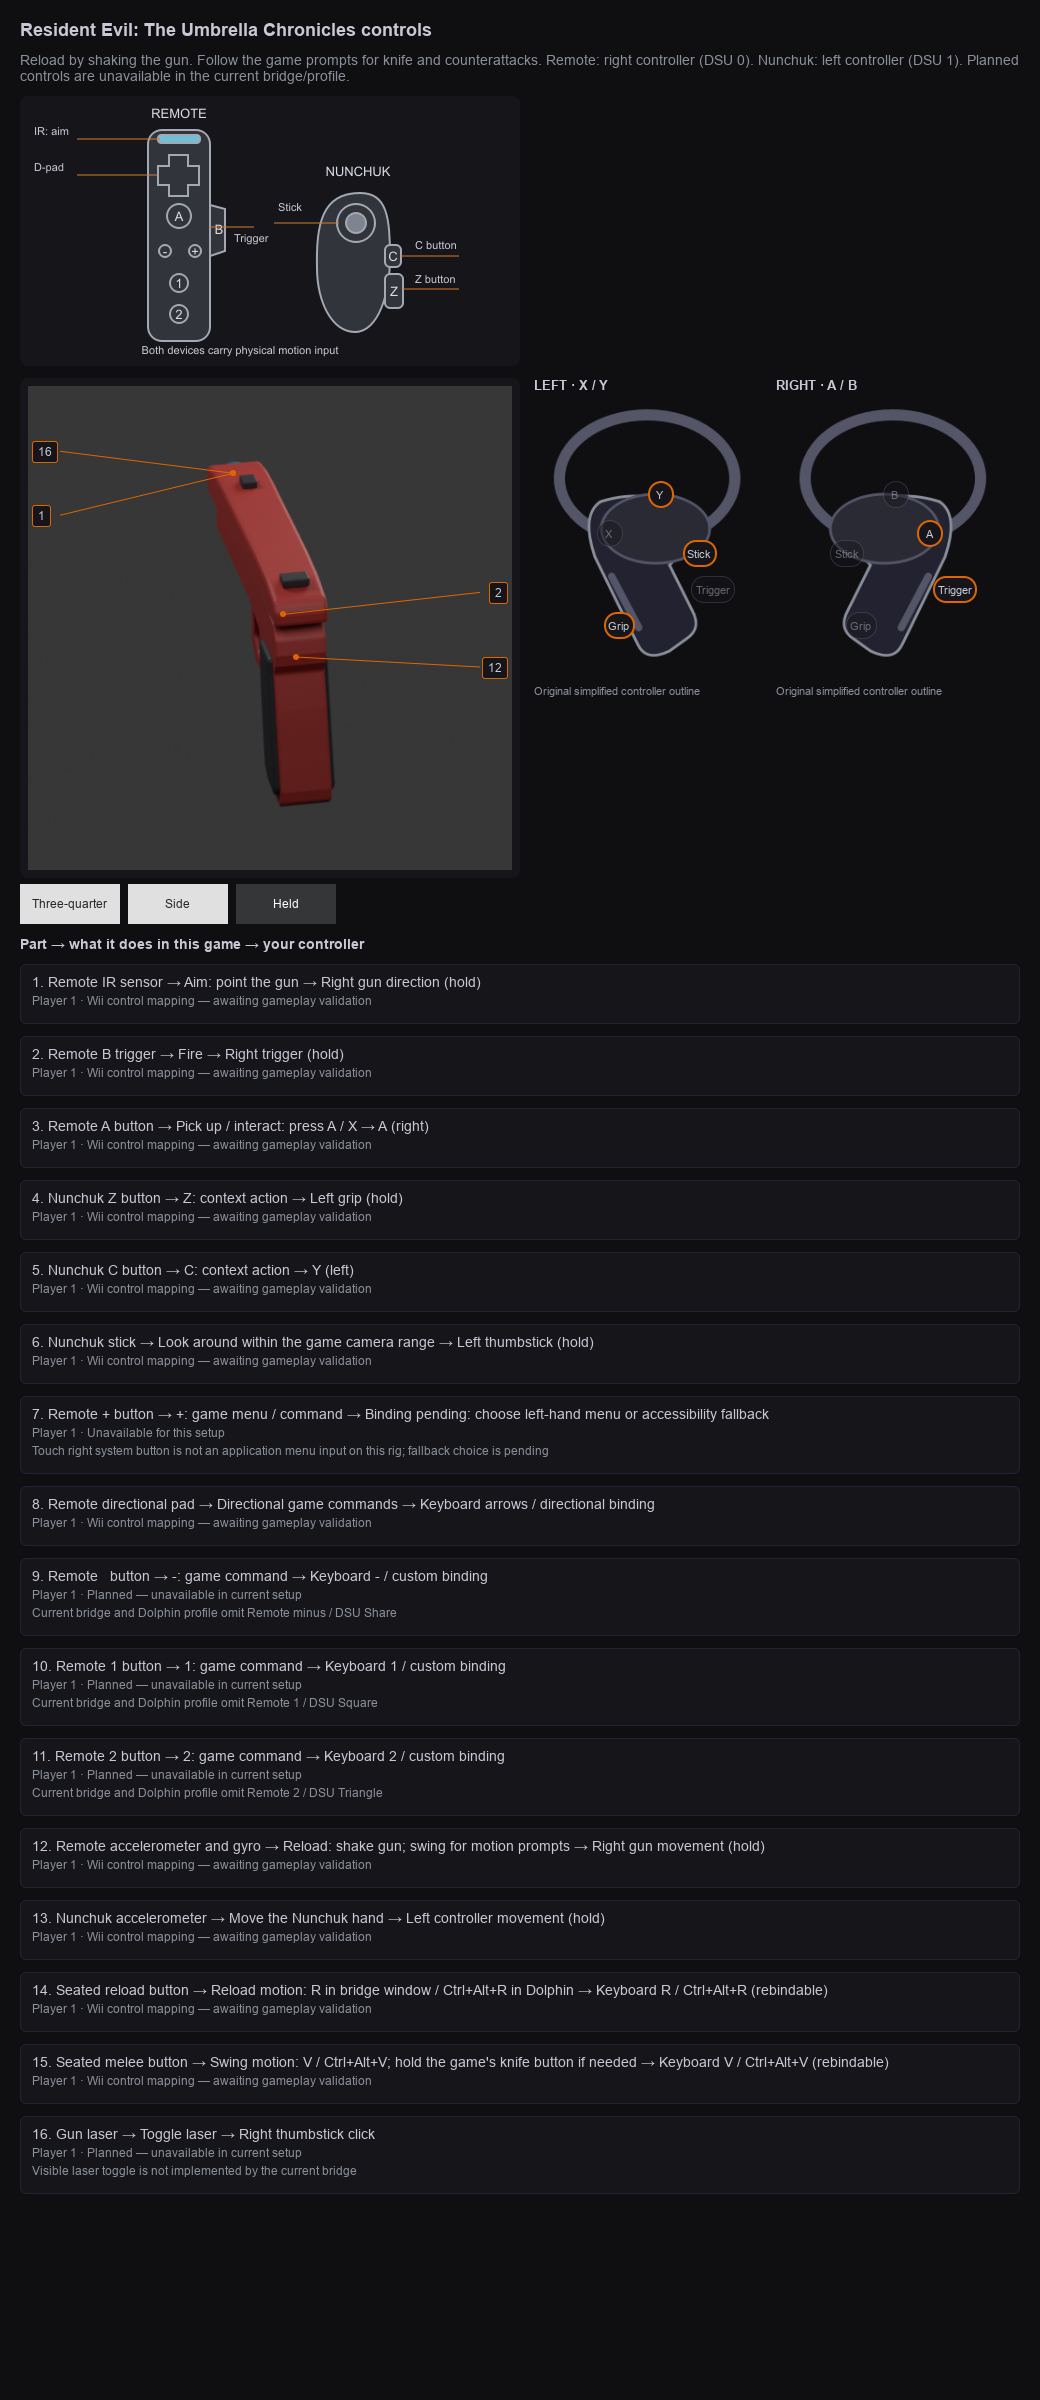
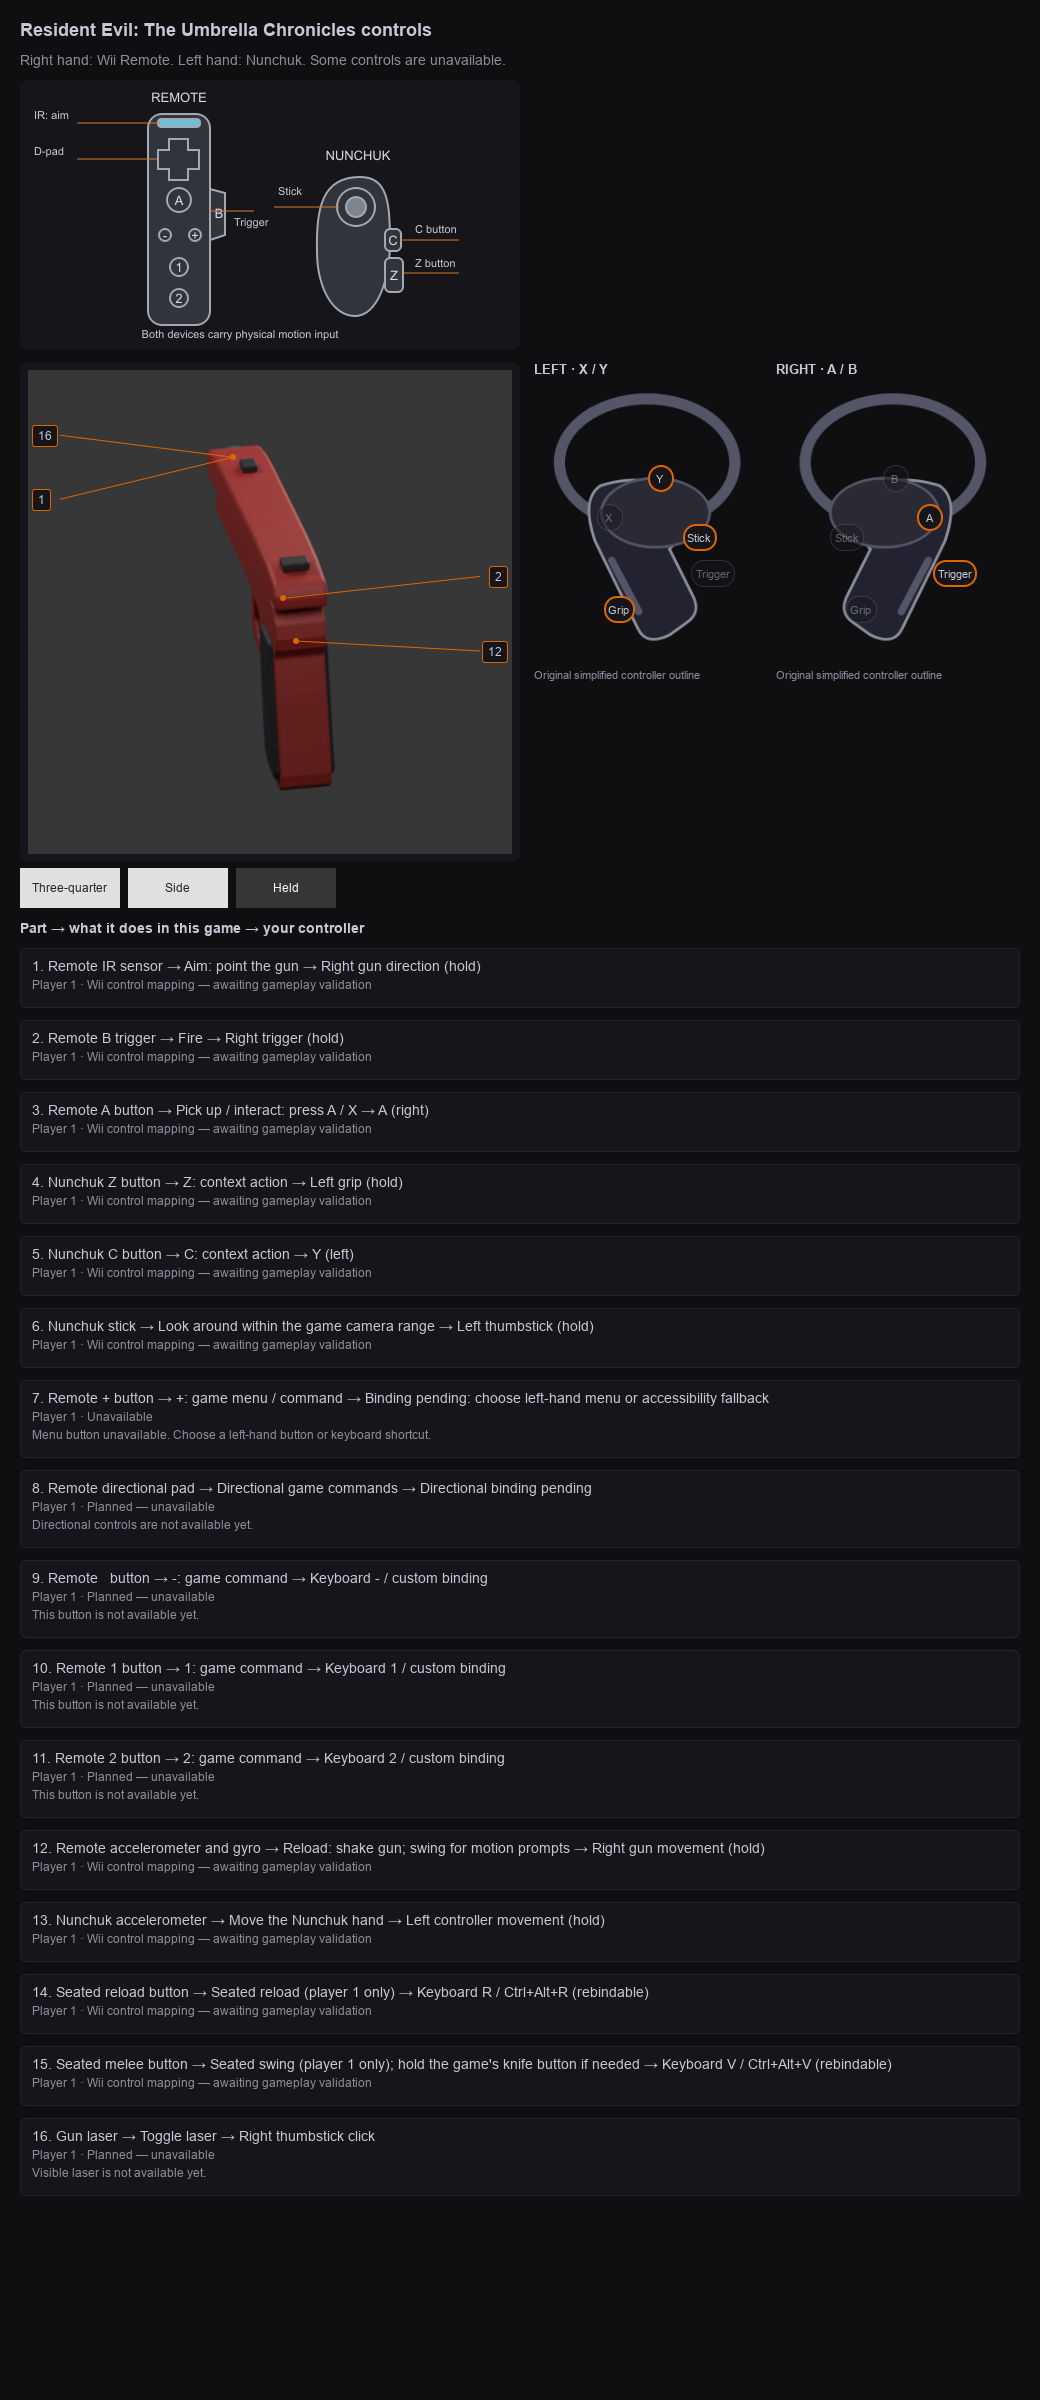
Scope Wii keyboard fallbacks to player one and mark D-pad planned

diff --git a/hub/src/controls/ControlsViewModel.cpp b/hub/src/controls/ControlsViewModel.cpp
@@ -190,11 +190,12 @@ QVariantList ControlsViewModel::makeRows() const {
         const auto availability = source.value("availability").toMap();
         QString state = availability.value("state").toString();
         QString reason = availability.value("reason").toString();
+        if (wiiControls()) reason=source.value("player_reason","This control is not available yet.").toString();
         const bool unsupportedHand = wiiControls() && !m_data.value("policy").toMap().value("supported_primary_hands").toStringList().contains(m_primaryHand);
         if (unmapped) state = "unmapped";
         else if (unsupportedHand) {
             state = "unavailable";
-            reason = "Left-primary setup is not implemented by the current Dolphin profile";
+            reason = "Left-hand Wii Remote setup is not available yet.";
         }
         else if (state != "available" && state != "unavailable" && state != "planned") state = "unverified";
         const QString node = source.value("node").toString();
@@ -204,7 +205,7 @@ QVariantList ControlsViewModel::makeRows() const {
         const QString part = unmapped ? source.value("label").toString() : pretty(source.value("part").toString());
         const QString action = unmapped ? "Game action pending" : source.value("label").toString();
         const QString bindingText = unmapped ? "Binding pending" : source.contains("binding_label") ? source.value("binding_label").toString() : bindingLabel(binding,hand);
-        const QString availabilityLabel = state == "planned" ? "Planned — unavailable in current setup" : state == "unavailable" ? "Unavailable for this setup" :
+        const QString availabilityLabel = state == "planned" ? "Planned — unavailable" : state == "unavailable" ? "Unavailable" :
                                           wiiControls() ? "Wii control mapping — awaiting gameplay validation" : state == "available" ? "Ready to test" :
                                           state == "unmapped" ? "Mapping pending" : "Awaiting validation";
         const auto device = binding.value("physical_dsu_slot_by_mode").toMap().value(m_twoGunsActive ? "two_remotes" : "one_gun");
@@ -227,10 +228,10 @@ QString ControlsViewModel::notice() const {
     if (!m_error.isEmpty()) return m_error;
     if (wiiControls()) {
         if (!m_data.value("policy").toMap().value("supported_primary_hands").toStringList().contains(m_primaryHand))
-            return "Left-primary setup is not ready: the current Dolphin profile uses a right Remote. Shown devices retain their physical slot assignments.";
-        return m_data.value("instruction").toString() +
-            (m_twoGunsActive ? " Each player's Nunchuk shares their Remote's physical controller." : " Remote: right controller (DSU 0). Nunchuk: left controller (DSU 1).") +
-            " Planned controls are unavailable in the current bridge/profile.";
+            return "Left-hand Wii Remote setup is not available yet. Right hand: Wii Remote. Left hand: Nunchuk.";
+        return (m_twoGunsActive ? QString("Player 1: right hand. Player 2: left hand. Each hand controls its own Wii Remote and Nunchuk.") :
+                                 QString("Right hand: Wii Remote. Left hand: Nunchuk.")) +
+            " Some controls are unavailable.";
     }
     if (m_rows.isEmpty()) return "Choose a game to see its controls";
     for (const auto &value : m_rows) if (value.toMap().value("availability").toString() != "available")

diff --git a/hub/src/controls/tests/ControlsViewTest.cpp b/hub/src/controls/tests/ControlsViewTest.cpp
@@ -236,11 +236,16 @@ private slots:
         QCOMPARE(rowWithId(model,"p1-z").value("hand").toString(),QString("left"));
         QCOMPARE(rowWithId(model,"p1-fire").value("physicalDsuSlot").toInt(),0);
         QCOMPARE(rowWithId(model,"p1-z").value("physicalDsuSlot").toInt(),1);
-        for (const QString &part : {QString("minus"),QString("one"),QString("two"),QString("laser")}) {
+        QVERIFY(model.notice().startsWith("Right hand: Wii Remote. Left hand: Nunchuk."));
+        QVERIFY(!model.notice().contains("DSU"));
+        for (const QString &part : {QString("dpad"),QString("minus"),QString("one"),QString("two"),QString("laser")}) {
             const auto row=rowWithId(model,"p1-"+part);
             QCOMPARE(row.value("availability").toString(),QString("planned"));
             QVERIFY(row.value("availabilityLabel").toString().contains("unavailable"));
             QVERIFY(!row.value("reason").toString().isEmpty());
+            QVERIFY(!row.value("reason").toString().contains("DSU"));
+            QVERIFY(!row.value("reason").toString().contains("bridge"));
+            QVERIFY(!row.value("reason").toString().contains("profile"));
         }
         QCOMPARE(rowWithId(model,"p1-laser").value("physicalDsuSlot").toInt(),-1);
         QCOMPARE(rowWithId(model,"p1-menu").value("availability").toString(),QString("unavailable"));
@@ -255,16 +260,24 @@ private slots:
         QCOMPARE(rowWithId(model,"p2-z").value("hand").toString(),QString("left"));
         QCOMPARE(rowWithId(model,"p1-z").value("physicalDsuSlot").toInt(),0);
         QCOMPARE(rowWithId(model,"p2-z").value("physicalDsuSlot").toInt(),1);
+        for (const QString &part : {QString("reload-fallback"),QString("melee-fallback")}) {
+            const auto p1=rowWithId(model,"p1-"+part), p2=rowWithId(model,"p2-"+part);
+            QCOMPARE(p1.value("availability").toString(),QString("unverified"));
+            QCOMPARE(p2.value("availability").toString(),QString("unavailable"));
+            QCOMPARE(p2.value("physicalDsuSlot").toInt(),0);
+            QVERIFY(p2.value("bindingLabel").toString().contains("player 1 only"));
+        }
+        QVERIFY(!model.notice().contains("DSU"));
         model.setBindingState("left","trigger",true);
         QVERIFY(rowWithId(model,"p2-fire").value("pressed").toBool());
         QVERIFY(!rowWithId(model,"p1-fire").value("pressed").toBool());
         model.setTwoGunsActive(false); model.setPrimaryHand("left");
         QCOMPARE(rowWithId(model,"p1-fire").value("hand").toString(),QString("right"));
         QCOMPARE(rowWithId(model,"p1-stick").value("hand").toString(),QString("left"));
-        QVERIFY(model.notice().contains("Left-primary setup is not ready"));
+        QVERIFY(model.notice().contains("Left-hand Wii Remote setup is not available yet"));
         for (const auto &value:model.rows()) {
             QCOMPARE(value.toMap().value("availability").toString(),QString("unavailable"));
-            QVERIFY(value.toMap().value("reason").toString().contains("Left-primary"));
+            QVERIFY(value.toMap().value("reason").toString().contains("Left-hand Wii Remote"));
         }
         model.setBindingState("right","trigger",true);
         QVERIFY(!rowWithId(model,"p1-fire").value("pressed").toBool());

diff --git a/tools/wii_controls.py b/tools/wii_controls.py
@@ -61,15 +61,23 @@ def compile_library(root=ROOT):
                 # attaches its Nunchuk to the other device; co-op reuses each
                 # player's own device for both Remote and Nunchuk.
                 has_device=row['role']!='local' or row['binding']['control'] in ('reload_fallback','melee_fallback')
+                fallback_player=row.get('fallback_player')
+                if fallback_player is not None:
+                    require(type(fallback_player) is int and fallback_player==0,'Current keyboard fallback producer only supports player 1')
                 row['binding']['physical_dsu_slot_by_mode']=dict(
                     one_gun=(1 if row['role']=='nunchuk' else 0) if has_device else None,
-                    two_remotes=slot if has_device else None)
+                    two_remotes=(fallback_player if fallback_player is not None else slot) if has_device else None)
                 row['input']=dict(kind='wii' if row['role']!='local' else 'runtime',semantic=row['target'])
                 row['availability']=dict(state=row.pop('implementation_state','configured'),
                     reason=row.pop('implementation_reason','Authored mapping; emulator/profile and gameplay checks are separate'))
                 require(row['availability']['state'] in ('configured','planned','unavailable'),'Invalid Wii implementation state')
                 if row['binding']['control']=='owner_setup':
                     row['availability']=dict(state='planned',reason='Choose the game layout and binding with the owner')
+                    row['player_reason']='Choose this binding together during setup.'
+                if fallback_player is not None and slot!=fallback_player:
+                    row['availability']=dict(state='unavailable',reason='Keyboard fallback producer only injects motion into physical DSU slot 0')
+                    row['player_reason']='Keyboard fallback is only available for player 1. Use physical motion.'
+                    row['binding_label']='Unavailable: keyboard fallback is player 1 only'
                 row.setdefault('node',''); generated.append(row)
         model=load(root/'data/guns/generic-pistol.toml')
         data=dict(version='0.1',family='wii',id=gid+'-controls',title=game['title']+' controls',gun_model='generic-pistol',

diff --git a/tools/test_wii_controls.py b/tools/test_wii_controls.py
@@ -55,7 +55,7 @@ class WiiControlsTests(unittest.TestCase):
         for game in compile_library()['games']:
             rows={r['id']:r for r in game['data']['element']}
             if game['data']['custom_setup']: continue
-            for part in ('minus','one','two','laser'):
+            for part in ('dpad','minus','one','two','laser'):
                 with self.subTest(game=game['game_id'],part=part):
                     availability=rows['p1-'+part]['availability']
                     self.assertEqual(availability['state'],'planned')
@@ -66,6 +66,20 @@ class WiiControlsTests(unittest.TestCase):
             self.assertEqual(rows['p1-menu']['availability']['state'],'unavailable')
             self.assertIn('Binding pending',rows['p1-menu']['binding_label'])
             self.assertIn('right system button',rows['p1-menu']['availability']['reason'])
+
+    def test_keyboard_motion_fallbacks_do_not_claim_player_two(self):
+        game=resolve_game(ROOT,'wii-resident-evil-umbrella-chronicles')
+        rows={r['id']:r for r in game['data']['element']}
+        for part in ('reload-fallback','melee-fallback'):
+            a,b=rows['p1-'+part],rows['p2-'+part]
+            self.assertEqual(a['availability']['state'],'configured')
+            self.assertEqual(b['availability']['state'],'unavailable')
+            self.assertEqual(a['fallback_player'],0)
+            self.assertEqual(b['fallback_player'],0)
+            self.assertEqual(b['binding']['physical_dsu_slot_by_mode'],{'one_gun':0,'two_remotes':0})
+            self.assertIn('player 1 only',b['binding_label'])
+        self.assertEqual(rows['p2-motion']['availability']['state'],'configured')
+        self.assertEqual(rows['p2-motion']['binding']['physical_dsu_slot_by_mode']['two_remotes'],1)
 
     def test_defaults_and_fallbacks_have_distinct_routes(self):
         game=resolve_game(ROOT,'wii-resident-evil-umbrella-chronicles')

diff --git a/data/controls/wii/README.md b/data/controls/wii/README.md
@@ -20,10 +20,10 @@ Wii semantics remain outside the arcade libacvr input vocabulary.
 | Nunchuk stick | Thumbstick | Left stick |
 | Remote + | Binding pending: left menu or accessibility fallback | Intended Options; right Touch system button unavailable |
 | Remote - / 1 / 2 | Planned keyboard or custom binding | Intended Share / Square / Triangle; bridge and profile omit these |
-| Remote directional pad | Keyboard arrows or custom binding | DSU directional buttons |
+| Remote directional pad | Planned directional binding | Intended DSU directional buttons; producer emits no bits or keyboard arrows |
 | Remote movement | Physical controller motion | Accelerometer in g; gyro in degrees/second |
 | Nunchuk movement | Nunchuk-hand physical motion | Nunchuk accelerometer binding |
-| Seated shake / swing | R / V in bridge; Ctrl+Alt+R / V in Dolphin | Inject motion on the same accelerometer/gyro path |
+| Seated shake / swing | Player 1 only: R / V in bridge; Ctrl+Alt+R / V in Dolphin | Inject motion into DSU 0 on the same accelerometer/gyro path |
 | Laser | Planned thumbstick click | Local action, no Wii button; visible laser not implemented |
 
 Logical `slot` / `player` identifies the player. Physical DSU device 0 is right,
@@ -36,8 +36,13 @@ physical assignments and mirrors A/B to X/Y. Left-primary selection is not
 implemented by the current profile generator; selecting it marks the setup
 unavailable and retains the actual physical device assignments.
 
-Minus/1/2 and laser are planned, and Remote + has a pending accessible binding;
-the view shows their reasons and does not highlight them as active inputs.
+D-pad, minus/1/2 and laser are planned, and Remote + has a pending accessible
+binding. The R/V producer only targets physical slot 0: `fallback_player = 0`
+keeps both keyboard fallback rows scoped to player 1, with player 2's generated
+rows unavailable even in co-op. Player 2's physical-motion mapping still targets
+slot 1. The view shows plain reasons and does not highlight unavailable controls
+as active inputs. DSU IDs and implementation reasons stay in data/docs; the
+one-gun notice reads "Right hand: Wii Remote. Left hand: Nunchuk."
 Physical axis signs, fallback waveform recognition and game actions still need
 separate bridge/profile checks. The profile lane's current game auto-selectors
 cover the two approved PAL Chronicles releases, not acceptance of all five sets.

diff --git a/docs/status/guns/2026-10-10-21.md b/docs/status/guns/2026-10-10-21.md
@@ -16,12 +16,12 @@ set and reserves owner choices. One compiled catalog serves native/Python
 views. One-gun Nunchuk roles switch to the other hand; co-op mirrors both
 players. Explicit physical DSU mode maps keep player slots separate: one gun
 Remote 0/Nunchuk 1; co-op 0/0 and 1/1. Motion Input remains separate from simulated Shake/Swing. R/V fallbacks
-show the bridge-window keys and Ctrl+Alt shortcuts. Added original anatomy,
+are explicitly player 1 only; player 2 uses physical motion. Added original anatomy,
 held view, leader lines and no empty preview panel.
 [Visible Umbrella mapping](../../../assets/controls/wii/umbrella-controls-preview.png).
 
 **Verified:** Actual asset checker 0 errors; LOD0 2300–4088 / LOD1 684–1156
-triangles. Surface-seating regression passes. 45 Python regressions pass.
+triangles. Surface-seating regression passes. 46 Python regressions pass.
 Three software/offscreen CTest suites pass, including the Wii compiled-data
 gate, all 152 native/Python results and hand-role/co-op UI checks. Public privacy
 and whitespace checks pass. No disc, GPU or headset use in this lane.
@@ -32,10 +32,11 @@ or gameplay acceptance. Per-game knife/grenade/Z/C and other truly unknown
 actions remain sitting questions; primary manual lookup did not settle them.
 Independent Nunchuk routing, physical axis signs, fallback recognition and
 laser runtime support belong to bridge/profile integration. Unsupported Wii
-pack/user layers fail explicitly. Minus/1/2 and laser are planned; Remote + is
+pack/user layers fail explicitly. D-pad, minus/1/2 and laser are planned; Remote + is
 unavailable on the right Touch system button, with left-menu/accessibility
 fallback choice pending. Left-primary mode is unavailable until profile support;
-view selection keeps actual physical assignments. Catalog CI now checks both
+view selection keeps actual physical assignments. Player-visible notices and
+reasons use plain hand/unavailable wording; DSU details remain internal. Catalog CI now checks both
 Chronicles co-op titles, all six separate-view titles and a solo cabinet by
 policy, without a brittle eligibility total. Current view supports model defaults.
 No tier, full chapter or 3D/headset acceptance is claimed.
